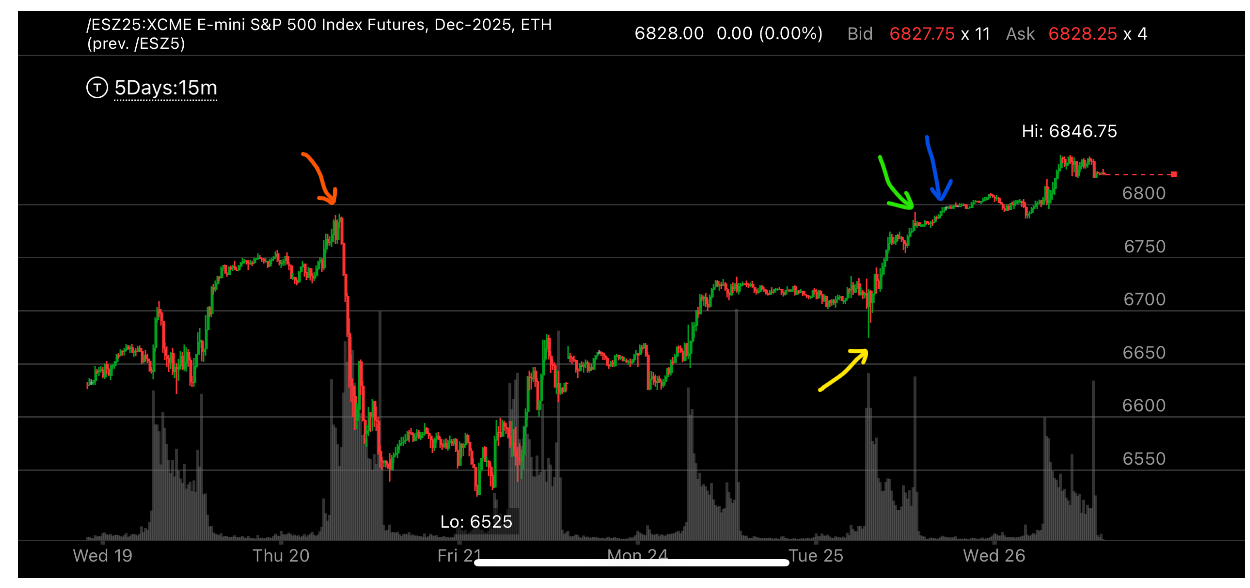
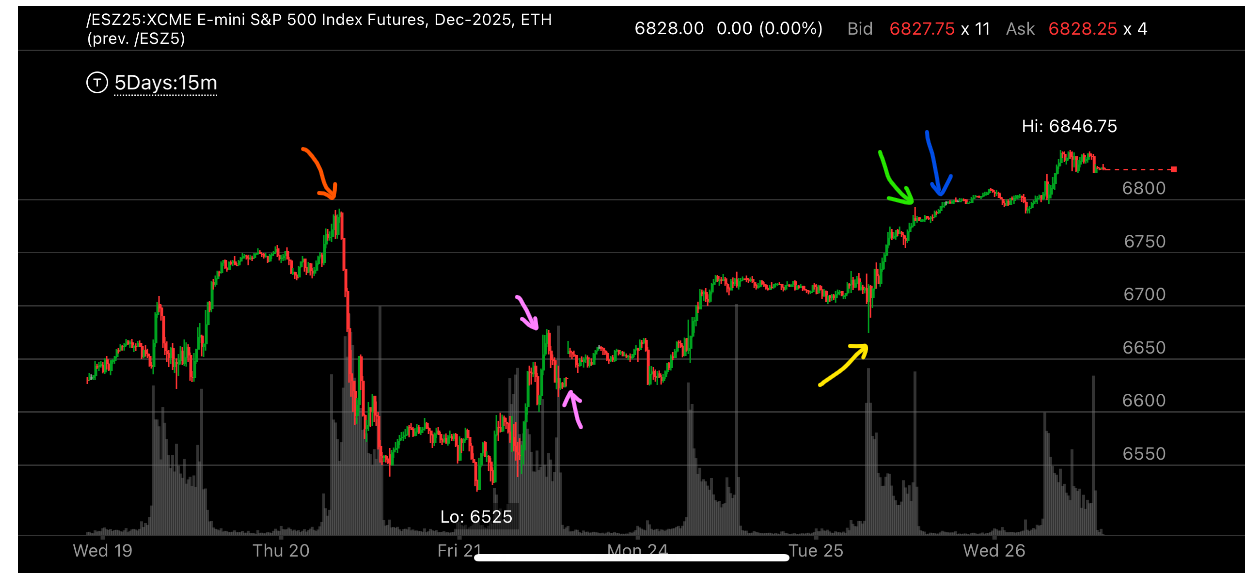
1. bottom out with a special rise mode.

diff --git a/a_typical_rising_mode.html b/a_typical_rising_mode.html
@@ -4,7 +4,7 @@
 
 <a name="top_ref"></a> 
 <br />
-<h1 style="color:DodgerBlue;"><em>一个典型的上涨走势</em></h1>
+<h1 style="color:DodgerBlue;"><em>加速下跌出现底部后，典型的上涨走势</em></h1>
 
 <ol>
 <h1 style="color:Blue;">
@@ -22,6 +22,18 @@
 <h3 style="color:Red;">
 <li>观察几个蓝色箭头，都是和前面下跌的时候的关键点相对应的。</li>
 <li>第一个蓝色箭头，上涨后，低于关键点，拉回。第二个关键点，正好是前面下跌的最后一个关键点。</li>
+
+</h3></ol>
+
+</h3>
+
+<img src="charts/inverse_flag_sharp.png"  width="1000" height="700">
+<h3 style="color:MediumSeaGreen;">图示:
+<ol>
+<h3 style="color:Red;">
+<li>大盘在前面出现了加速下跌底部。</li>
+<li>观察粉色箭头，它是第一天上涨。它涨幅很大，但是收盘的时候拉回。</li>
+<li>随后几天，它就开始连续上涨，一点回调都没有。</li>
 
 </h3></ol>
 

diff --git a/index.html b/index.html
@@ -182,7 +182,7 @@
 
 <h1 style="color:Blue; font-size:30px;"><em>
 <li>
-<a href="a_typical_rising_mode.html" target="_blank">一个典型的上涨走势</a>
+<a href="a_typical_rising_mode.html" target="_blank">加速下跌出现底部后，典型的上涨走势</a>
 </li></em></h1>
 
 <h1 style="color:Blue; font-size:30px;"><em>
